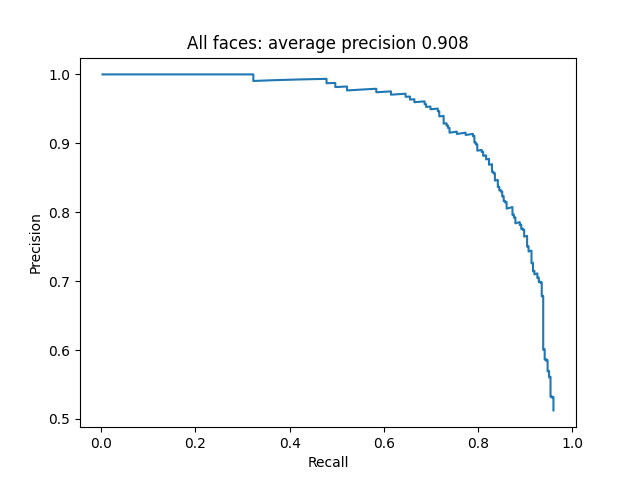
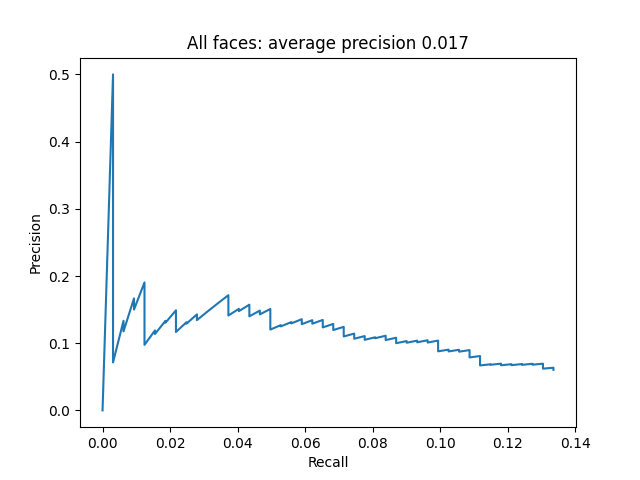
Fix paths in notebooks

diff --git a/src/task2.py b/src/task2.py
@@ -22,7 +22,9 @@ from src.constants import (
     SOLUTION_FILE_NAMES_FRED_PATH,
     SOLUTION_DETECTIONS_WILMA_PATH,
     SOLUTION_SCORES_WILMA_PATH,
-    SOLUTION_FILE_NAMES_WILMA_PATH, TEST_IMAGES_PATH, WINDOW_SIZE,
+    SOLUTION_FILE_NAMES_WILMA_PATH,
+    TEST_IMAGES_PATH,
+    WINDOW_SIZE,
 )
 
 
@@ -51,7 +53,9 @@ def run_task2_cnn(is_test: bool = False):
 
     for file_name, detection in zip(file_names, detections):
         image = cv.imread(str(images_path / file_name))
-        cropped_box = cv.resize(image[detection[1]: detection[3], detection[0]: detection[2]], (WINDOW_SIZE, WINDOW_SIZE))
+        cropped_box = cv.resize(
+            image[detection[1] : detection[3], detection[0] : detection[2]], (WINDOW_SIZE, WINDOW_SIZE)
+        )
         cropped_box = cv.cvtColor(cropped_box, cv.COLOR_BGR2RGB)
         tensor = transforms.ToTensor()(cropped_box).unsqueeze(0).to(device)
         output = model(tensor)

diff --git a/src/task1.py b/src/task1.py
@@ -59,7 +59,7 @@ def run_task1_cnn(is_test=False):
                 break
 
             # Resize the image
-            resized_image = cv.resize(image, [int(IMAGE_HEIGHT * scale), int(IMAGE_WIDTH * scale)])
+            resized_image = cv.resize(image, (int(IMAGE_HEIGHT * scale), int(IMAGE_WIDTH * scale)))
 
             NUM_COLS = resized_image.shape[1] - WINDOW_SIZE - 1
             NUM_ROWS = resized_image.shape[0] - WINDOW_SIZE - 1

diff --git a/src/eval.py b/src/eval.py
@@ -183,7 +183,7 @@ verbose = 0
 
 # change this on your machine
 solution_path_root = "solution/"
-ground_truth_path_root = "data/validation/"
+ground_truth_path_root = "data/test/"
 
 
 # task1

diff --git a/README.md b/README.md
@@ -79,7 +79,6 @@ python src/pre_training.py
 ```
 
 - Then you can run the jupyter notebooks `task1_cnn.ipynb` and `task2_cnn.ipynb` to train the networks.
-- You might need to change the paths as they are relative to the root of the project not the notebooks.
 - `Note:` Task1 took me 30 minutes to train on a RTX3070 and Task2 took me about 5 minutes to train on the same GPU. If
   you don't have a powerful GPU or none at all, it will take a lot longer.
 - The models will overwrite the ones in the models/ folder, therefore your results might be different from the ones in
